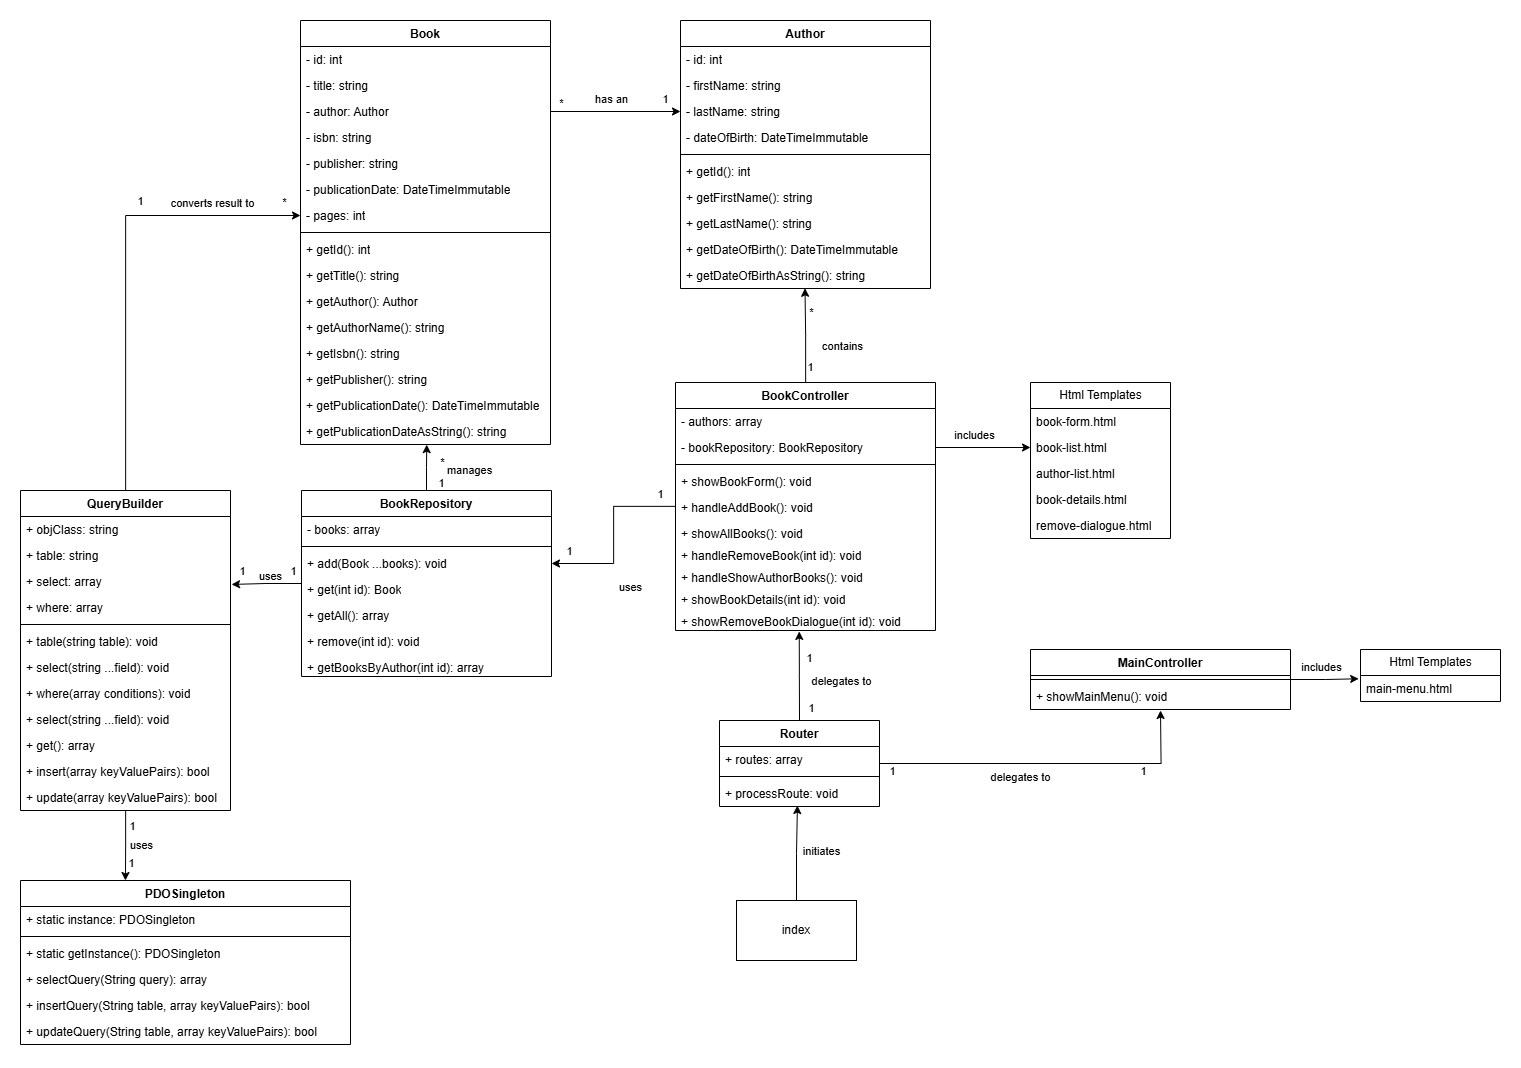
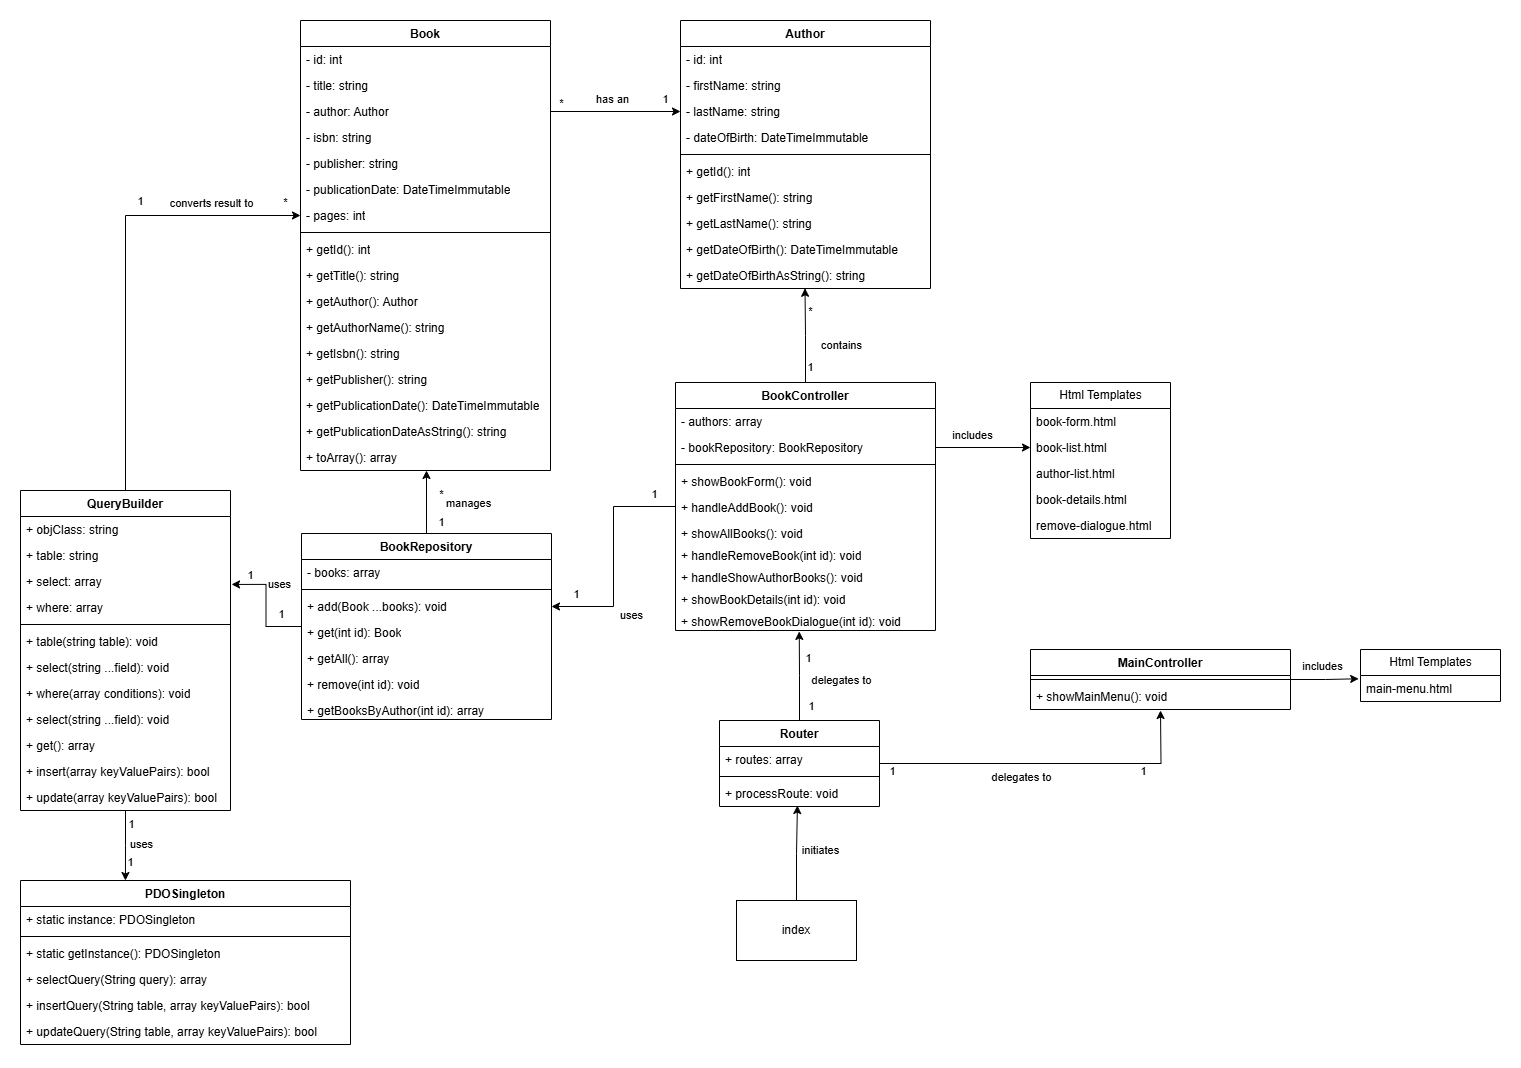
working on assignment week 7

diff --git a/07 - Databases/librarysystem.md b/07 - Databases/librarysystem.md
@@ -1,0 +1,69 @@
+# Bibliotheek Systeem Deel 4
+## 7. **Toevoeging van de Klassen `QueryBuilder` en `PDOSingleton`**
+
+In de nieuwe versie van het systeem zijn twee belangrijke klassen toegevoegd: `QueryBuilder` en `PDOSingleton`. Deze aanpassingen zijn gericht op het verbeteren van de database-interactie door middel van abstractie en het vermijden van directe database-toegang binnen de repositories.
+
+## **Nieuwe Klassen**
+
+**`PDOSingleton`**:
+- **Beschrijving**:
+  - `PDOSingleton` implementeert het Singleton-patroon om één gedeelde PDO-verbinding te beheren.
+  - Door deze klasse te gebruiken, wordt ervoor gezorgd dat er slechts één actieve verbinding met de database bestaat gedurende de levensduur van de applicatie.
+- **Voordelen**:
+  - Vermindert overhead door het hergebruiken van dezelfde PDO-instantie.
+  - Vereenvoudigt het beheer van databaseverbindingen.
+- **Relatie**:
+  - Wordt gebruikt door de `QueryBuilder` voor database-interacties.
+
+**`QueryBuilder`**:
+- **Beschrijving**:
+  - `QueryBuilder` biedt een flexibele en gestandaardiseerde manier om database-query's te bouwen en uit te voeren.
+  - Het maakt gebruik van de PDO-instantie die wordt geleverd door `PDOSingleton`.
+- **Voordelen**:
+  - Scheidt de logica van database-interacties van repositories.
+  - Maakt de code leesbaarder en onderhoudsvriendelijker.
+  - Minimaliseert directe SQL-code binnen de repositories.
+- **Relatie**:
+  - Wordt gebruikt door de `BookRepository` voor het uitvoeren van CRUD-operaties op boeken.
+
+### **Effect op de Structuur**
+
+**Relatie tussen `BookRepository`, `QueryBuilder` en `PDOSingleton`**:
+- De `BookRepository` is nu afhankelijk van de `QueryBuilder` in plaats van rechtstreeks met de database te communiceren.
+- `QueryBuilder` vertrouwt op de PDO-instantie van `PDOSingleton` voor het uitvoeren van database-query's.
+
+**Voorbeeld Workflow**:
+1. Een gebruiker doet een verzoek via een formulier.
+2. De `Router` stuurt het verzoek naar de juiste controller.
+3. De controller roept de `BookRepository` aan voor database-interacties.
+4. De `BookRepository` gebruikt de `QueryBuilder` om een database-query uit te voeren.
+5. De `QueryBuilder` verkrijgt een gedeelde PDO-instantie van `PDOSingleton` en voert de query uit.
+6. Resultaten worden verwerkt en doorgegeven aan de HTML-template voor weergave.
+
+### **Samenvatting van de Wijzigingen**:
+- **Voordelen**:
+  - Verbetert de modulariteit en onderhoudbaarheid van het systeem.
+  - Zorgt voor een duidelijke scheiding van verantwoordelijkheden.
+  - Minimaliseert herhaling en directe afhankelijkheden binnen de code.
+- **Impact**:
+  - Database-interacties zijn nu veiliger en eenvoudiger te testen.
+  - De repositories bevatten minder complexe logica en SQL-query’s, wat zorgt voor schonere code.
+
+Met deze toevoegingen is het systeem beter voorbereid op schaalbaarheid en complexere database-operaties in de toekomst.
+
+---
+
+## 8. **Uitbreiding van de `Book` Klasse met de Methode `toArray`**
+
+De `Book` klasse heeft een nieuwe methode genaamd `toArray` gekregen. Deze methode maakt het mogelijk om een `Book` object eenvoudig om te zetten naar een associatieve array, wat handig is bij het opslaan in een database.
+
+**Details van de `toArray` Methode**:
+- **Beschrijving**:
+  - Converteert alle relevante properties van een `Book` object naar een key-value structuur.
+- **Gebruik**:
+  - Wordt gebruikt door de `BookRepository` om objecten eenvoudig te serialiseren voordat ze worden opgeslagen in de database.
+
+**Effect op de Workflow**:
+- Wanneer een boek wordt opgeslagen, kan de `toArray` methode worden aangeroepen om een gestandaardiseerde representatie van het object te verkrijgen.
+- De gegenereerde array wordt vervolgens doorgegeven aan de `QueryBuilder` voor verwerking in een SQL-query.
+
